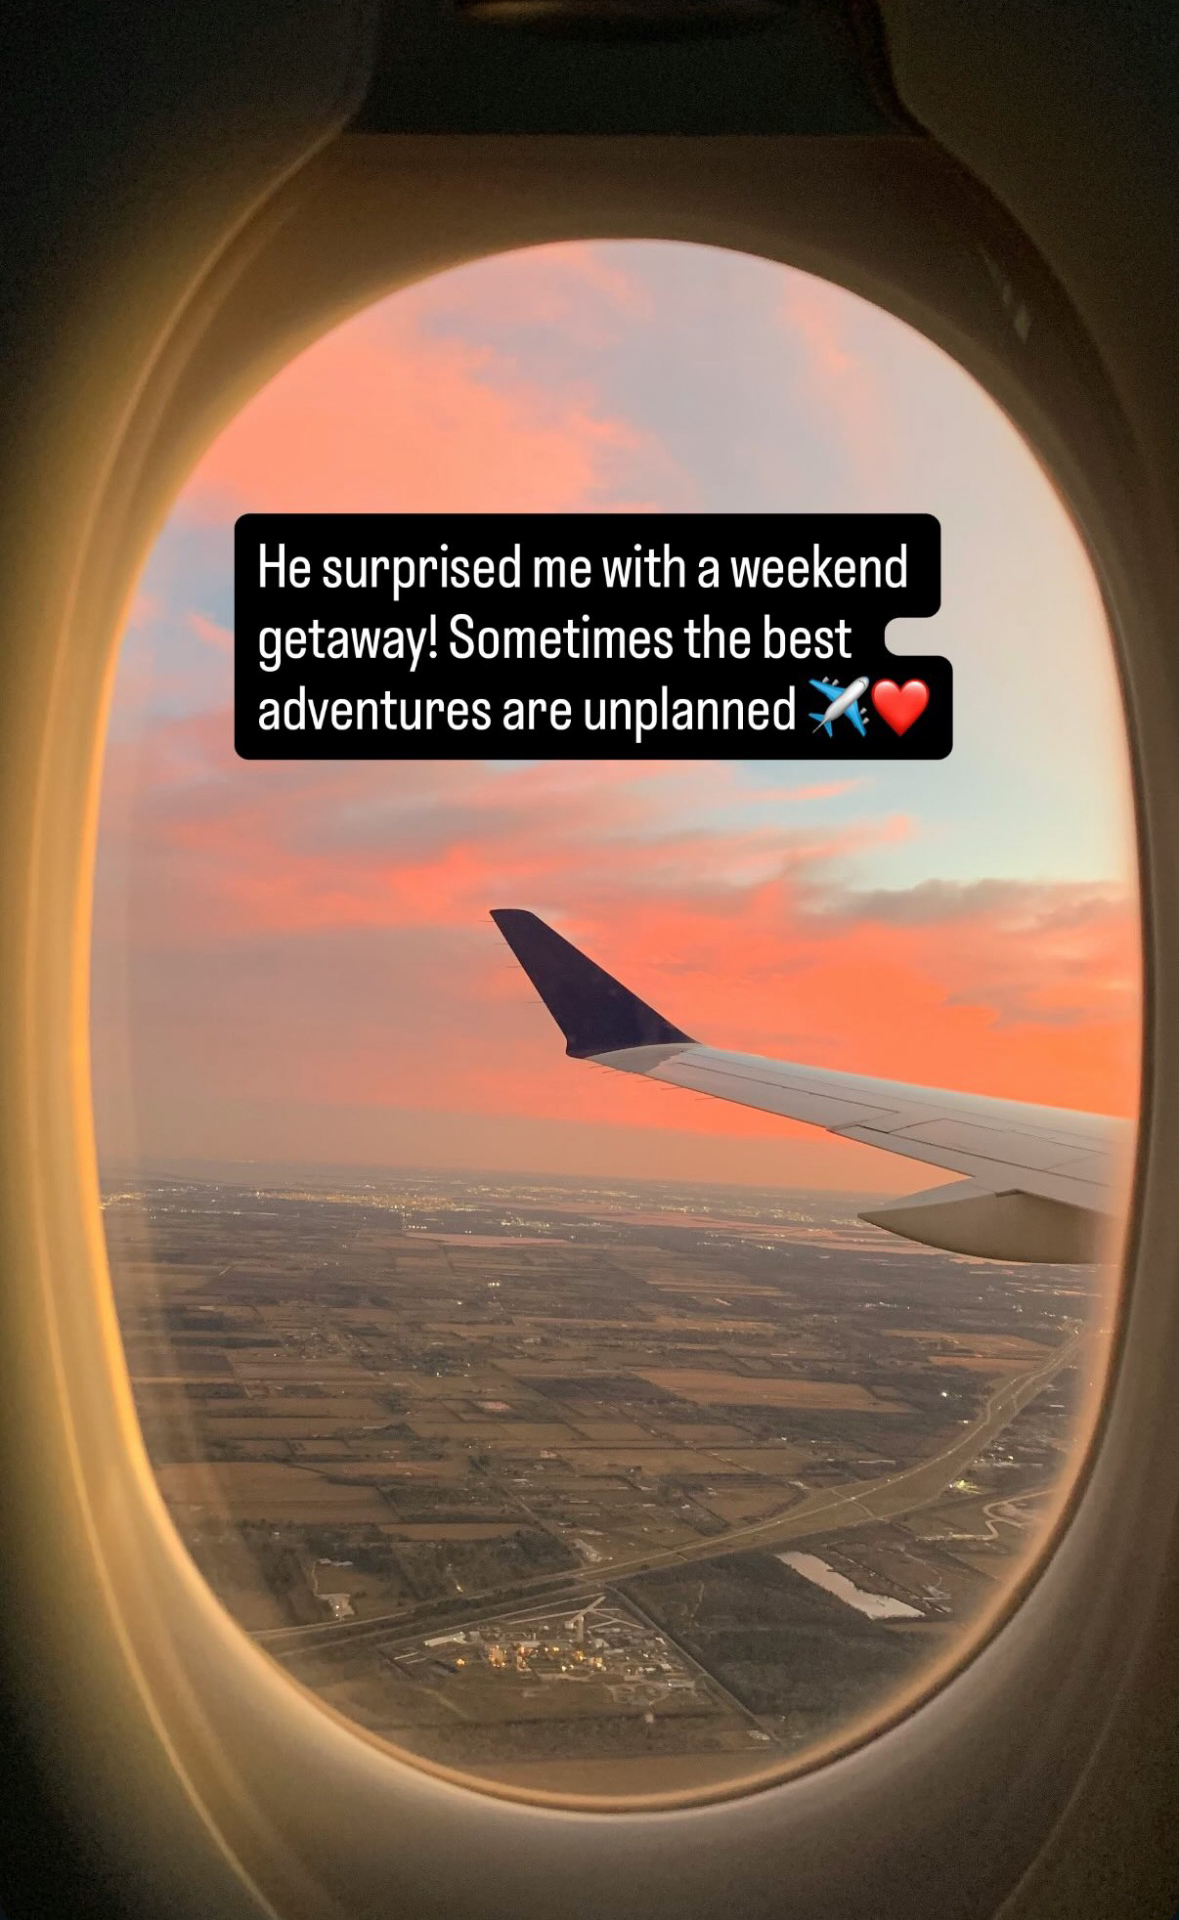
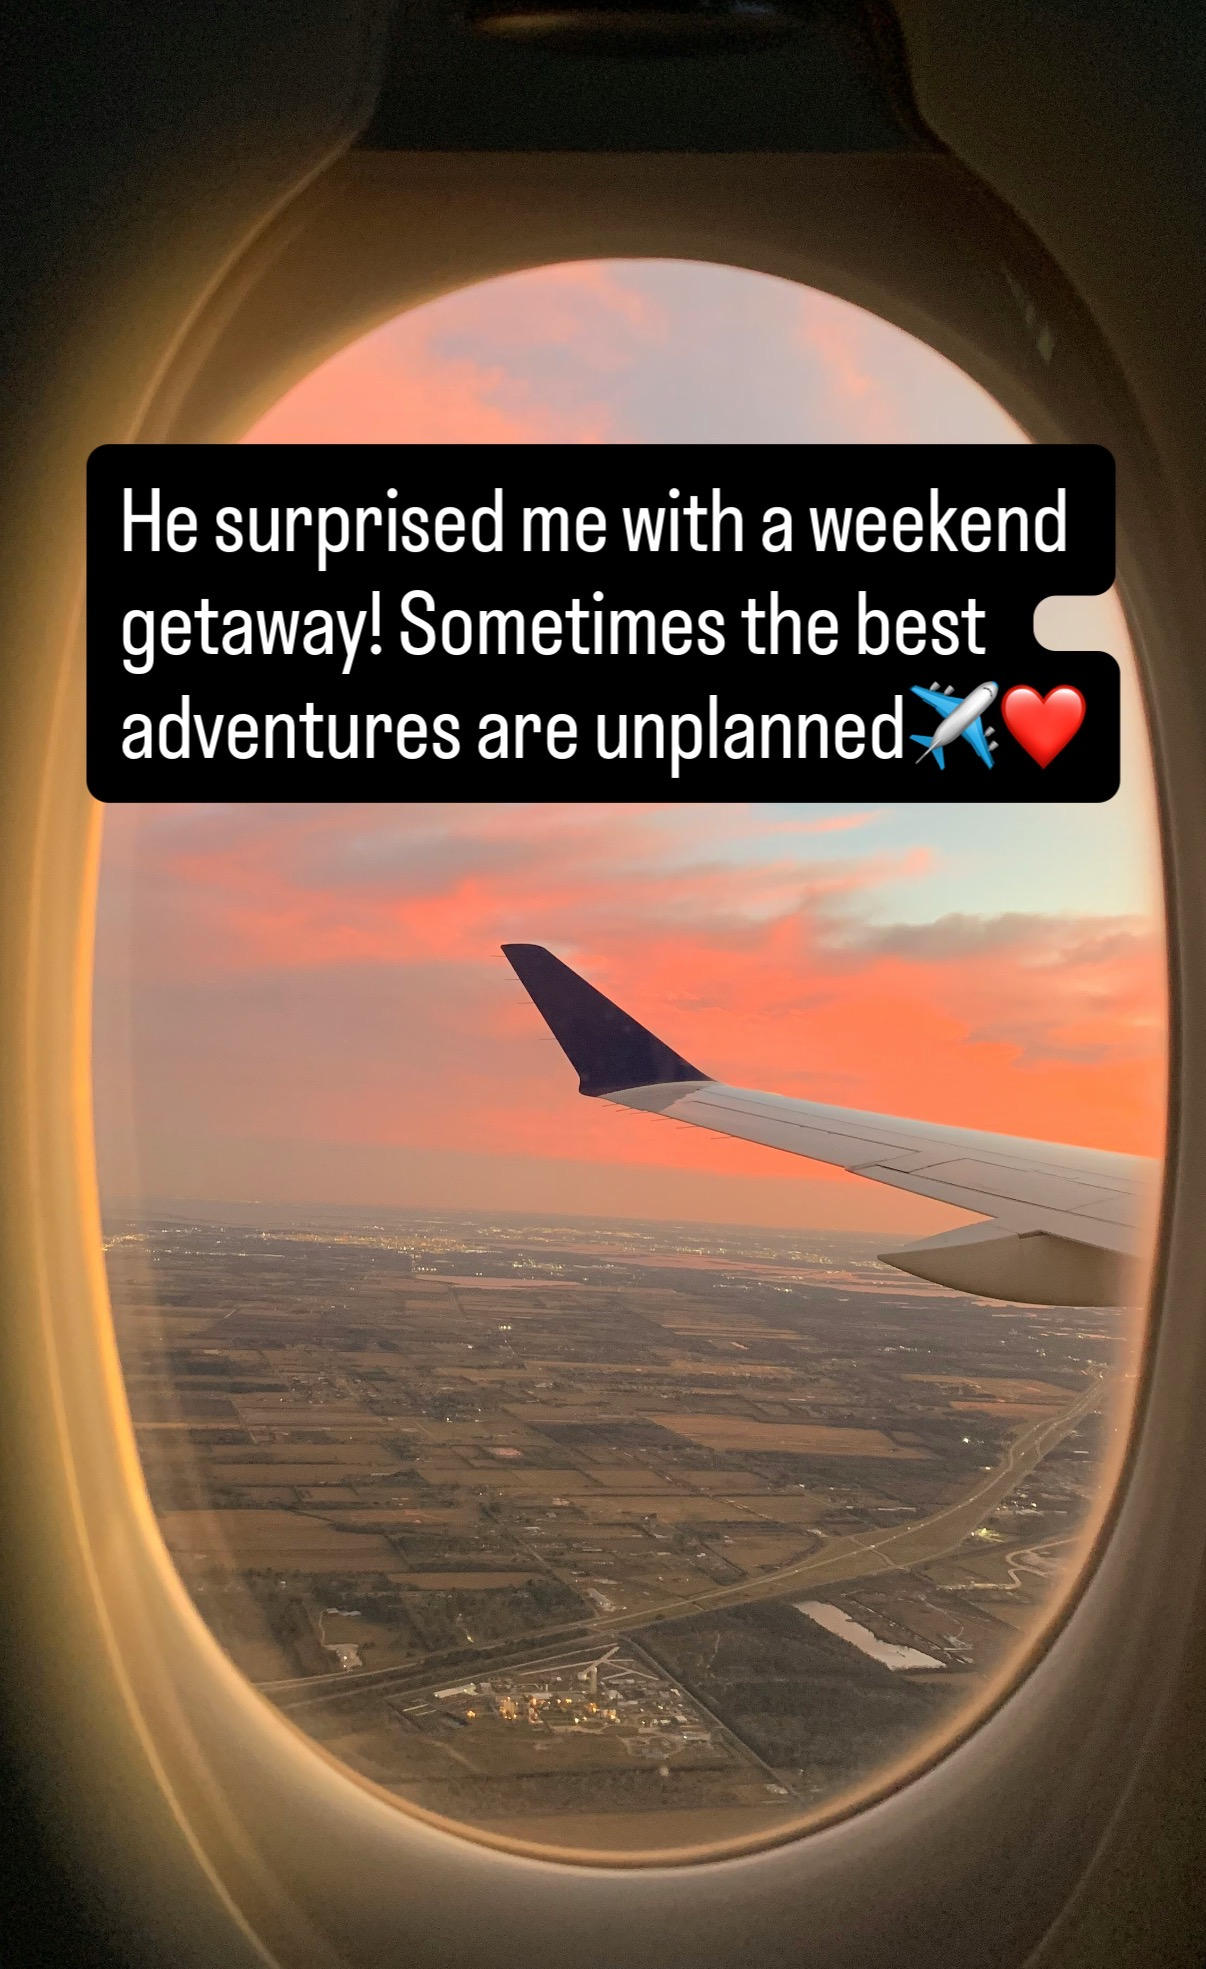
Add files via upload

diff --git a/PS_set3/PS_set3.html b/PS_set3/PS_set3.html
@@ -340,21 +340,21 @@ const stories = [
     caption: '',
     label:   'Airplane',
     type:    '',
-    duration: 10000
+    duration: 12000
   },
   {
-    bg:      'url("filler3.jpg") center/contain no-repeat',
+    bg:      'url("filler.jpg") center/contain no-repeat',
     caption: '',
     label:   'Exploring',
     type:    '',
-    duration: 10000
+    duration: 12000
   },
   {
     bg:     'url("PS-4.jpg") center/contain no-repeat',
     caption: '',
     label:   'Boat',
     type:    '',
-    duration: 10000
+    duration: 12000
   }
 ];
 